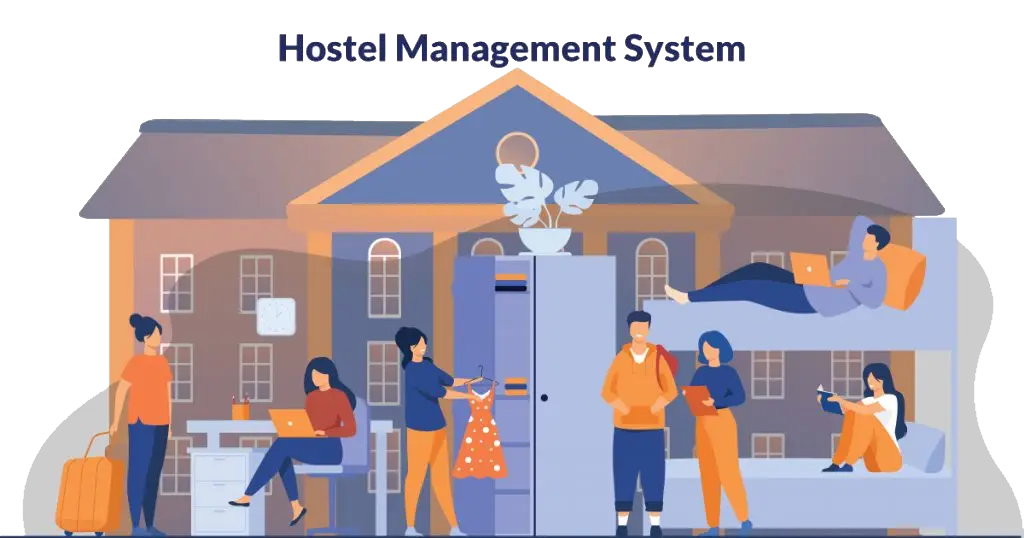
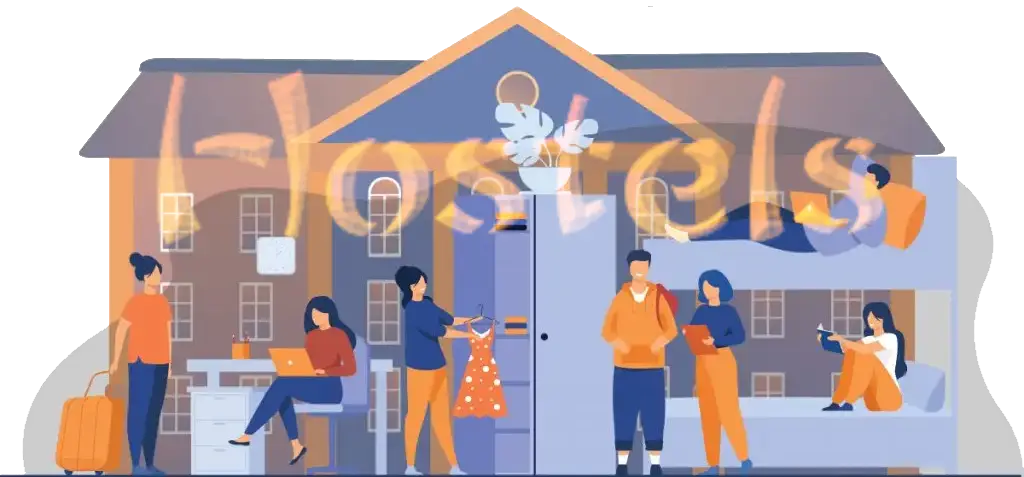
Refactor home_page.dart and students_page.dart

diff --git a/lib/Screens/home_page.dart b/lib/Screens/home_page.dart
@@ -6,7 +6,7 @@ import '../Models/hostel_model.dart';
 import '../Screens/students_page.dart';
 
 class HomePage extends StatefulWidget {
-  const HomePage({Key? key}) : super(key: key);
+  const HomePage({super.key});
 
   @override
   State<HomePage> createState() => _HomePageState();
@@ -27,13 +27,9 @@ class _HomePageState extends State<HomePage> {
           child: Column(
             crossAxisAlignment: CrossAxisAlignment.center,
             children: [
-              ClipRRect(
-                borderRadius:
-                    const BorderRadius.vertical(bottom: Radius.circular(175)),
-                child: Image.asset('assets/images/hostels_banner.webp',
-                    height: 200, fit: BoxFit.cover, color: Colors.white),
-              ),
-              const SizedBox(height: 64),
+              Image.asset('assets/images/hostels_banner.webp',
+                  height: 200, fit: BoxFit.cover),
+              const SizedBox(height: 48),
               Expanded(
                 child: FutureBuilder<List<Hostel>>(
                   future: hostels,

diff --git a/lib/Screens/students_page.dart b/lib/Screens/students_page.dart
@@ -15,14 +15,14 @@ class _StudentsPageState extends State<StudentsPage> {
   @override
   Widget build(BuildContext context) {
     return Scaffold(
-      body: Column(
-        children: [
-          ClipRRect(
-            borderRadius: const BorderRadius.vertical(bottom: Radius.circular(175)),
-            child: Image.asset('assets/images/students_banner.webp',
-                height: 200, fit: BoxFit.cover, color: Colors.white),
-          ),
-        ],
+      body: Center(
+        child: Column(
+          children: [
+            Image.asset('assets/images/students_banner.webp',
+                height: 200, fit: BoxFit.cover),
+            const SizedBox(height: 48),
+          ],
+        ),
       ),
     );
   }
